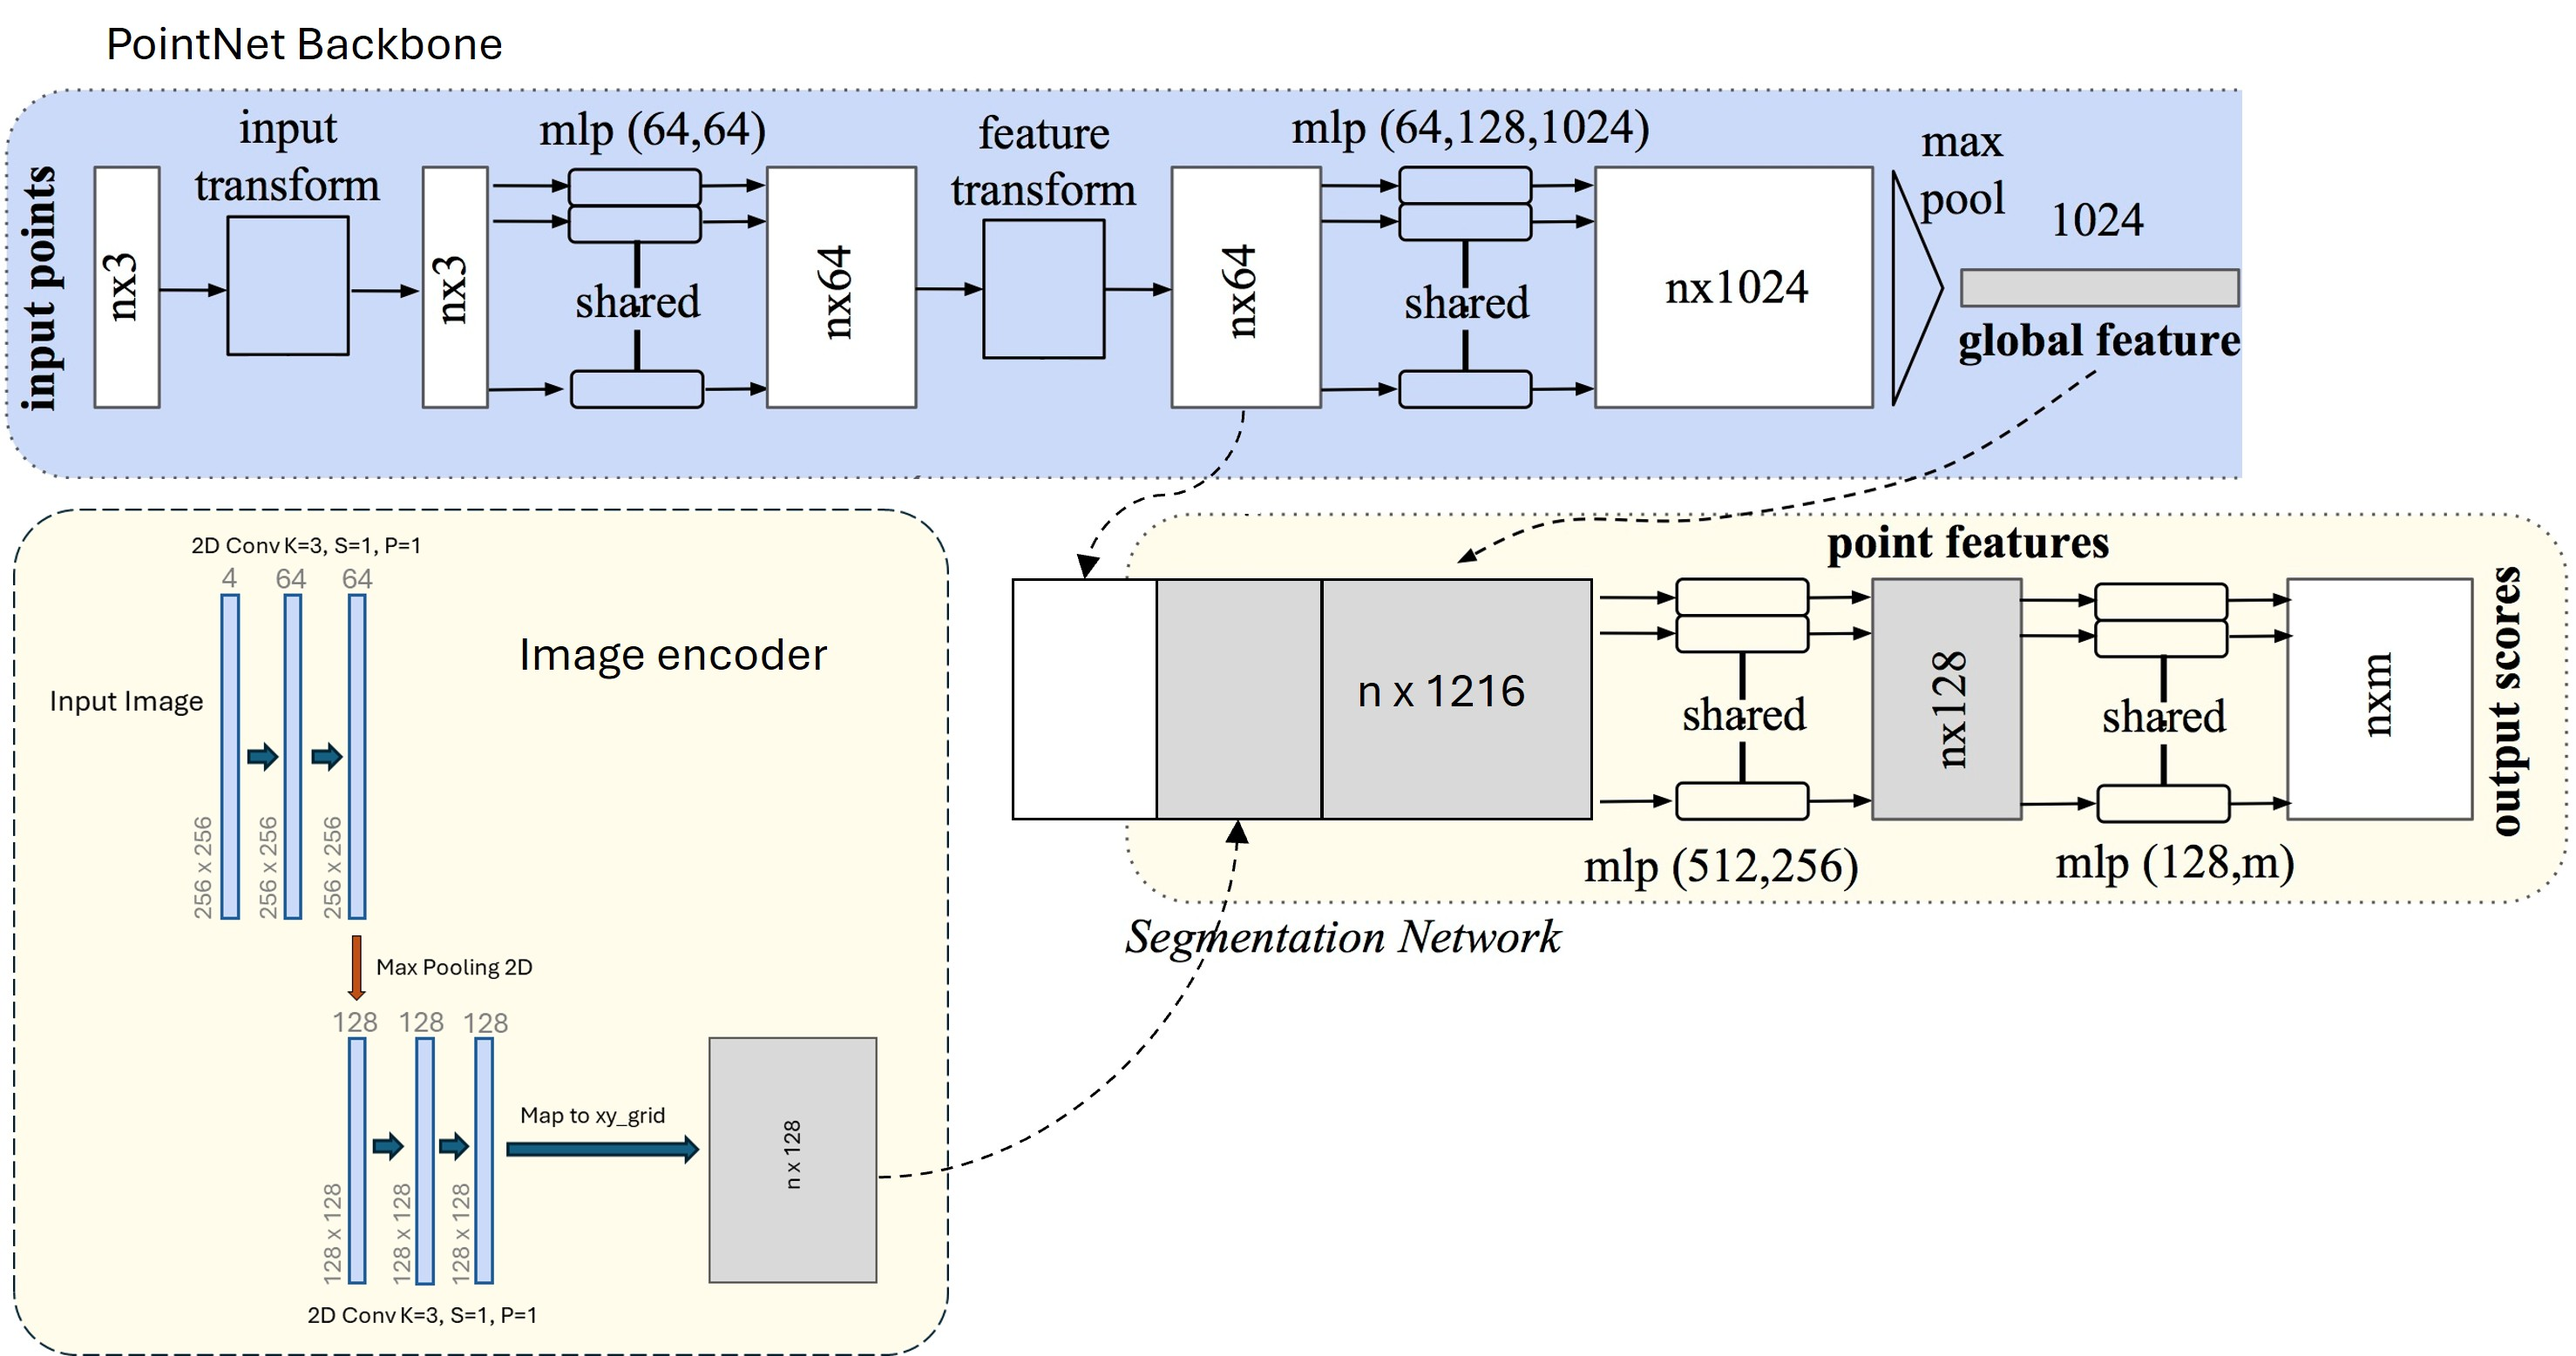
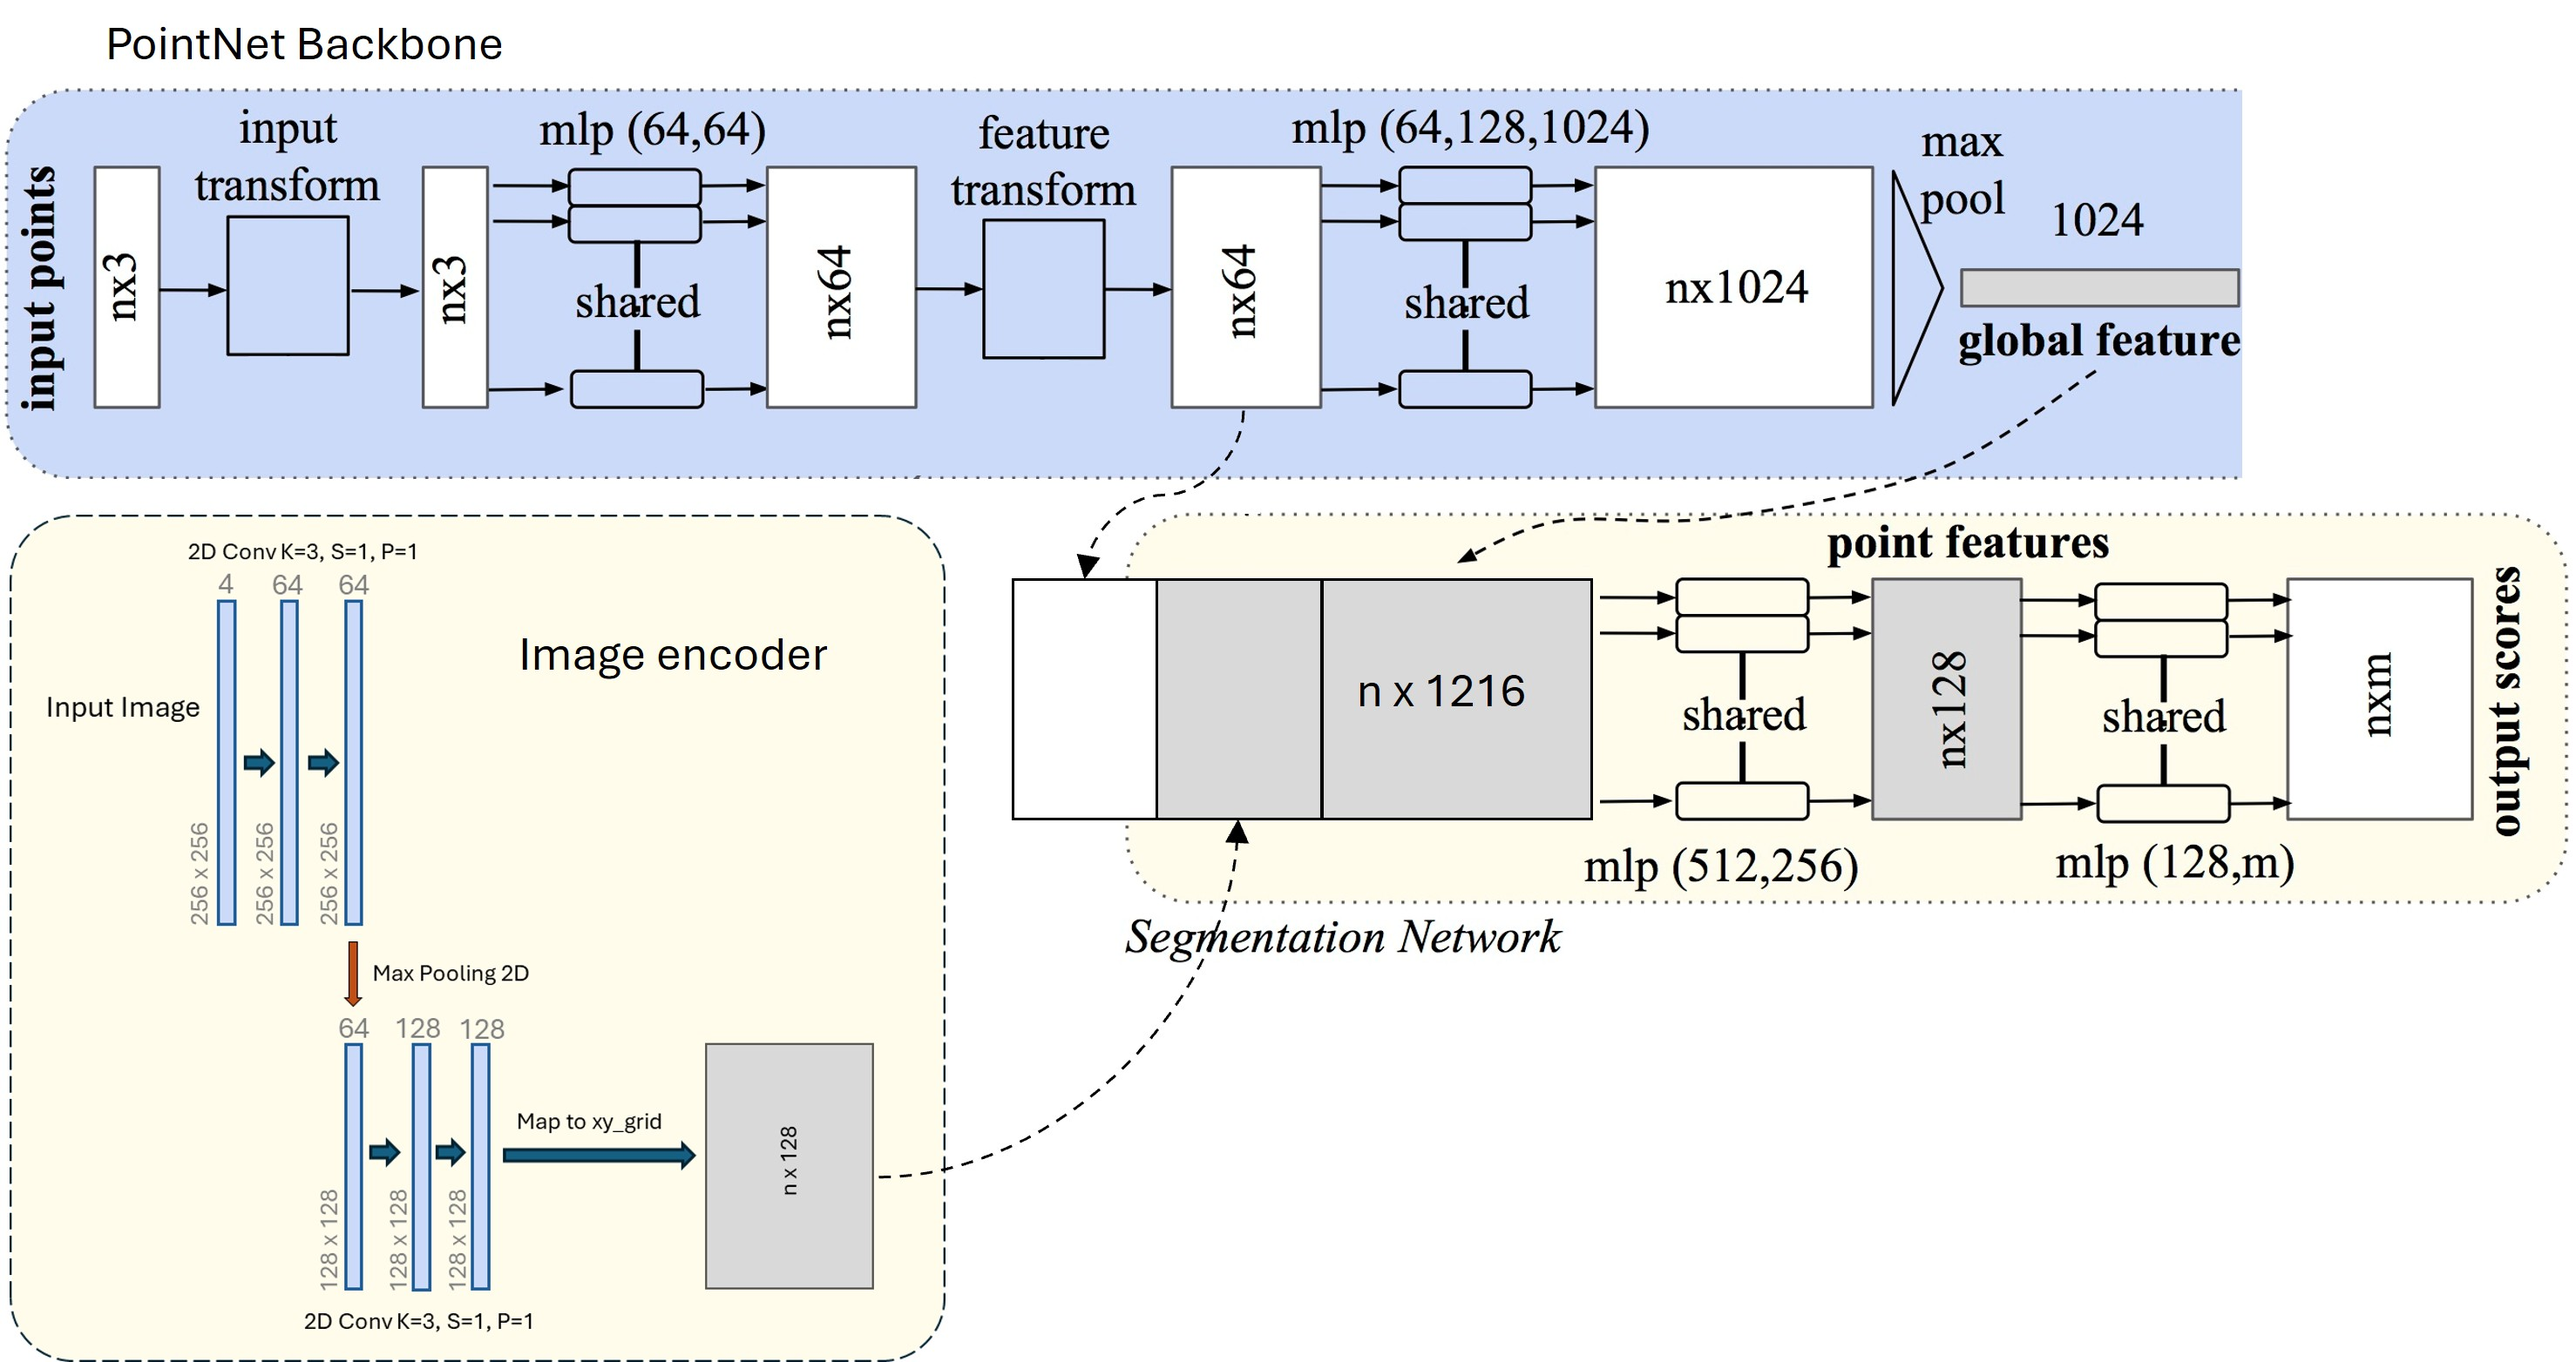
fixed images, added more description in image encoder

diff --git a/README.md b/README.md
@@ -1139,6 +1139,31 @@ This local sampling is implemented using PyTorch’s grid_sample operation insid
 
 ![image_encoder](figs/image_encoder.png)
 
+The image encoder consist of 2 blocks of 2D convolutional filters, with a ReLU operation in between.
+
+Then a max pooling 2D is applied in the final tensor, for dimensional reduction.
+
+| Stage | Operation | Output shape |
+|:---:|:---:|:---:|
+|Input image| None | `[B, 4, 256, 256]` |
+| Block1 |  Conv2D | `[B, 64, 256, 256]` |
+| Block1 |  ReLU |   `[B, 64, 256, 256]` |
+| Block1 |  Conv2D | `[B, 64, 256, 256]` |
+| Block1 |  ReLU |   `[B, 64, 256, 256]` |
+| Block1 to Block2| MaxPool2D | `[B, 64, 128, 128]` |
+| Block2 | Conv2D | `[B, 128, 128, 128]` |
+| Block2 | ReLU | `[B, 128, 128, 128]` |
+| Block2 | Conv2D | `[B, 128, 128, 128]` |
+| Block2 | ReLU | `[B, 128, 128, 128]` |
+| Map 2 xy_grid| map2_xy_grid | `[B, n, 128]` |
+
+All the convolutions in the image encoder use the following configuration:
+
+```yaml
+Kernel_size: 3
+Padding: 1
+Stride: 1
+```
 ---
 
 ### Implicit BEV Neighborhood
